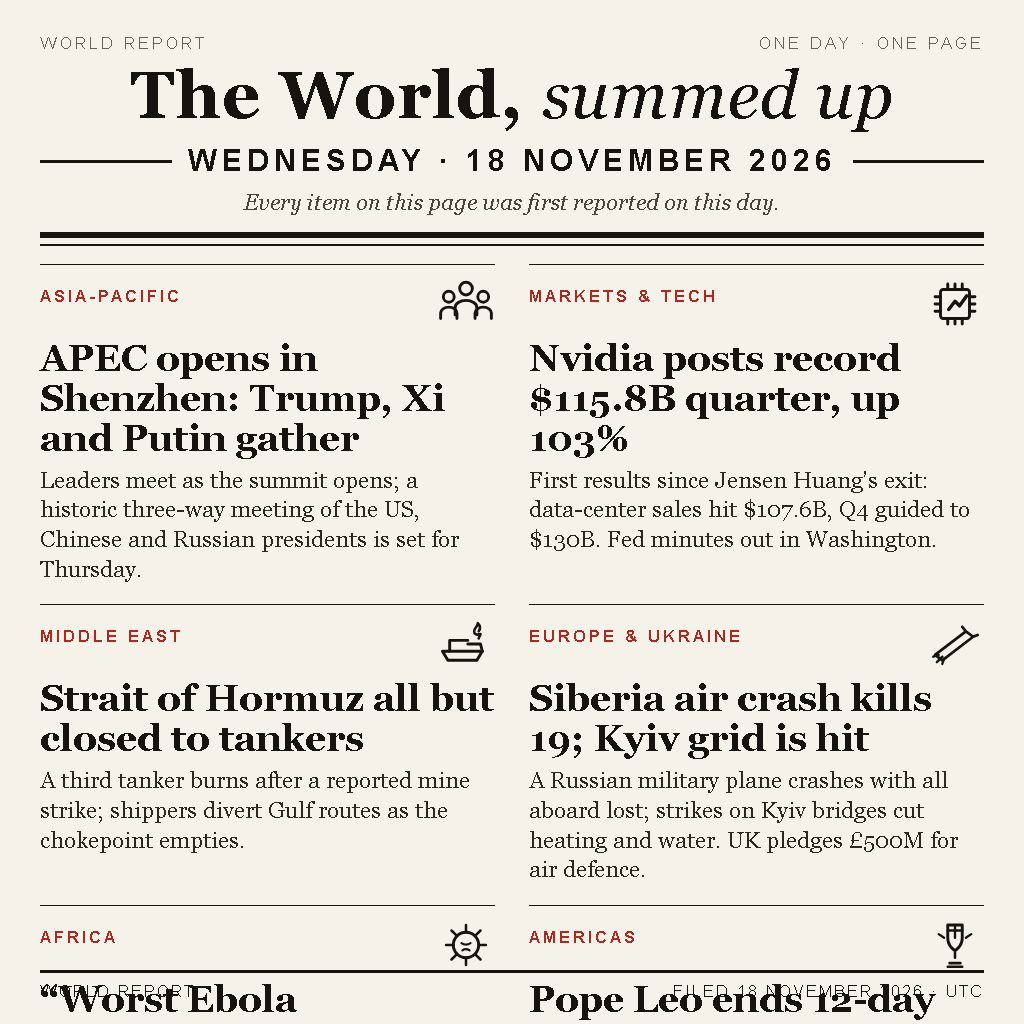
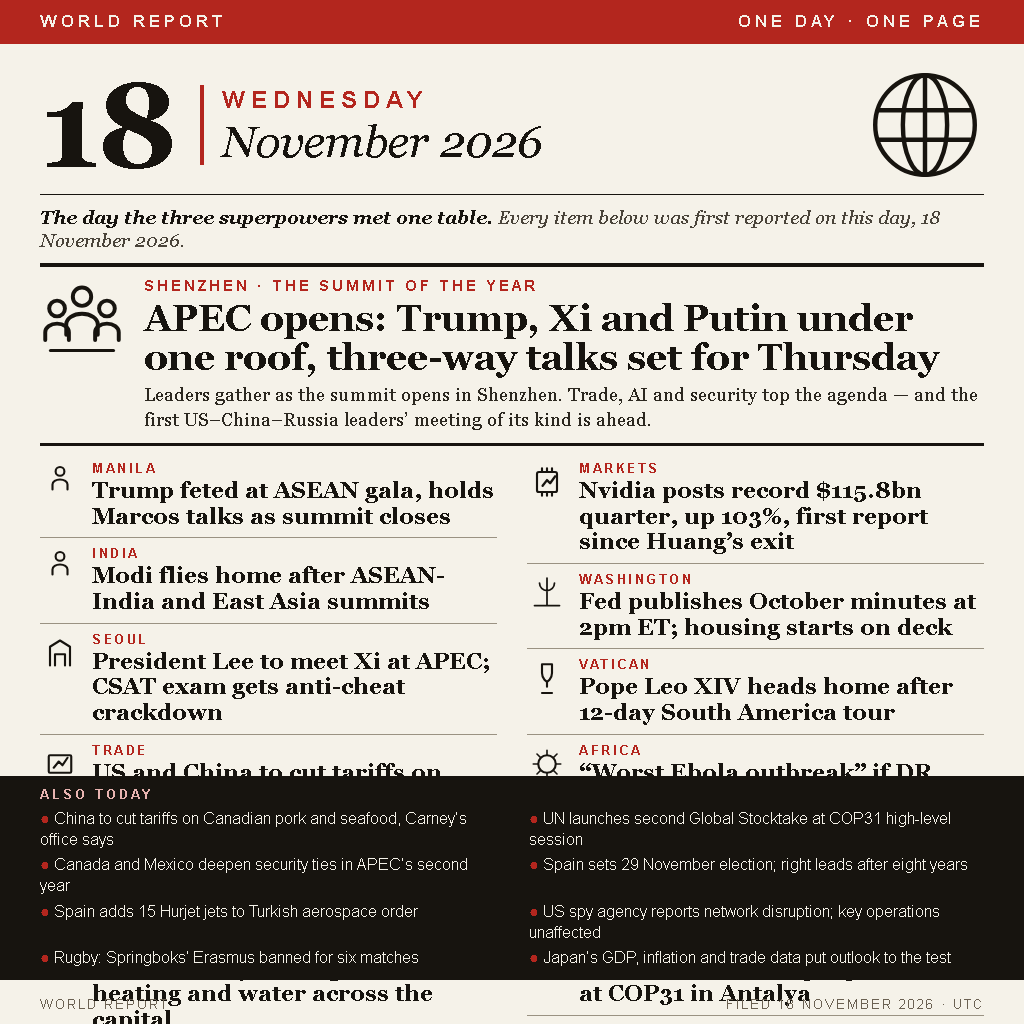
v2: bold poster layout with briefs ticker, 22 stories across six continents

diff --git a/README.md b/README.md
@@ -6,11 +6,11 @@
 
 An entry for make.fun's bounty "Sum up 18 November's world news in one image": one
 1024×1024 image that sums up the world's news of Wednesday, 18 November 2026, laid
-out as a newspaper front page — the APEC summit opening in Shenzhen with the
+out as a bold front-page poster — the APEC summit opening in Shenzhen with the
 Trump–Xi–Putin trilateral set for Thursday, Nvidia's record $115.8B quarter, the
-Strait of Hormuz all but closed to tankers, the Siberia air crash and strikes on
-Kyiv's grid, the DR Congo Ebola warning, and the end of Pope Leo's South American
-journey.
+Strait of Hormuz all but closed to tankers, strikes on Kyiv's grid, the Siberia
+air crash, the DR Congo Ebola warning, COP31 in Antalya, the end of Pope Leo's
+South American journey — and an "Also today" briefs ticker with eight more items.
 
 The program is a one-liner: the image ships in the repository as `entry.png`, and
 `main.ts` copies it byte for byte into the output directory, so every run is
